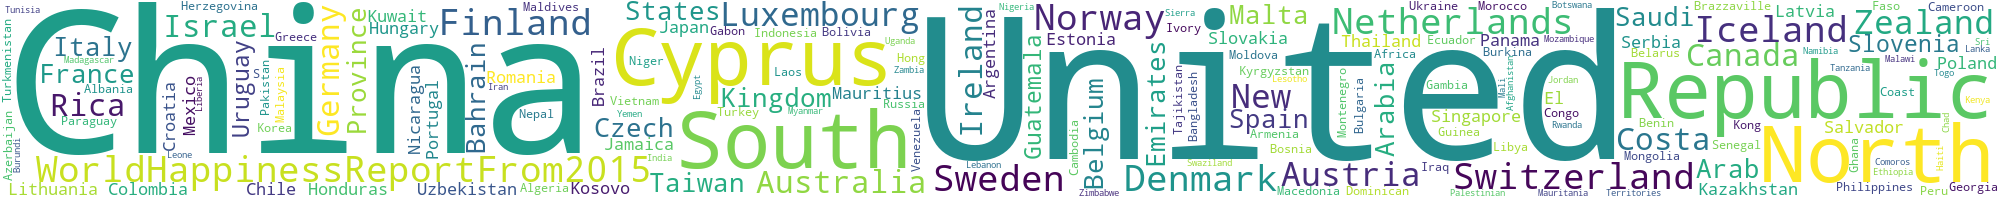
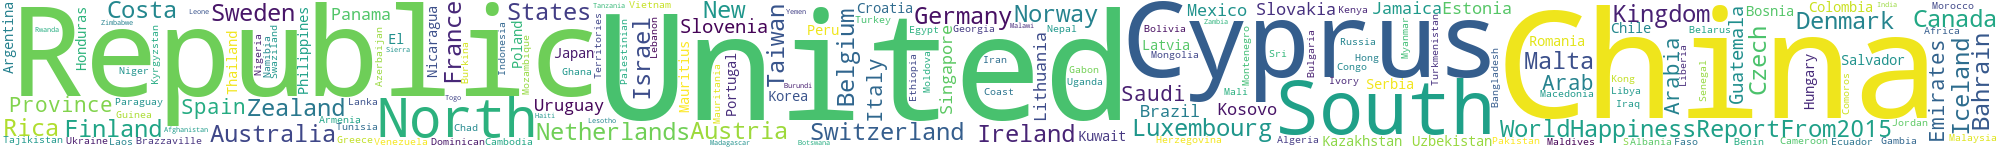
fix

diff --git a/GenerateWorldCloud.py b/GenerateWorldCloud.py
@@ -12,6 +12,6 @@ for index, data in file.iterrows():
     worldCloudText += ' '
     worldCloudText += str(data["Country"] )
 
-w = wordcloud.WordCloud(background_color='white', width=2000, height=200)
+w = wordcloud.WordCloud(background_color='white', width=2000, height=150)
 w.generate(worldCloudText)
 w.to_file('assets/allCountries1.png')
